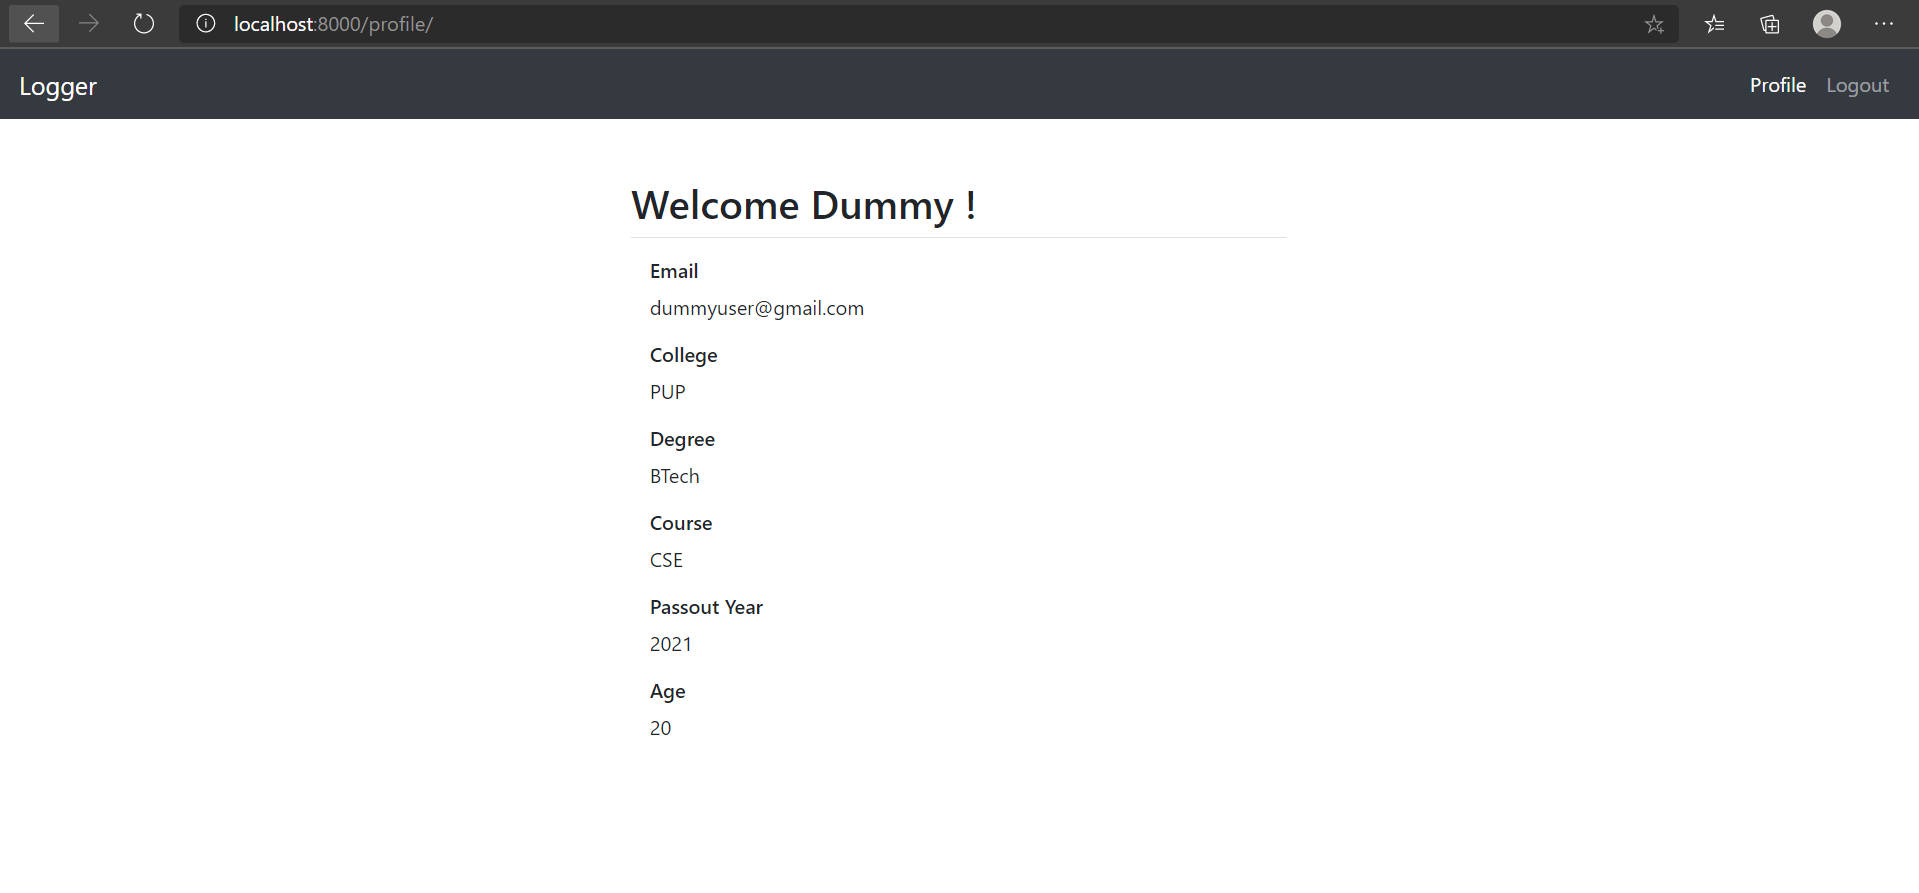
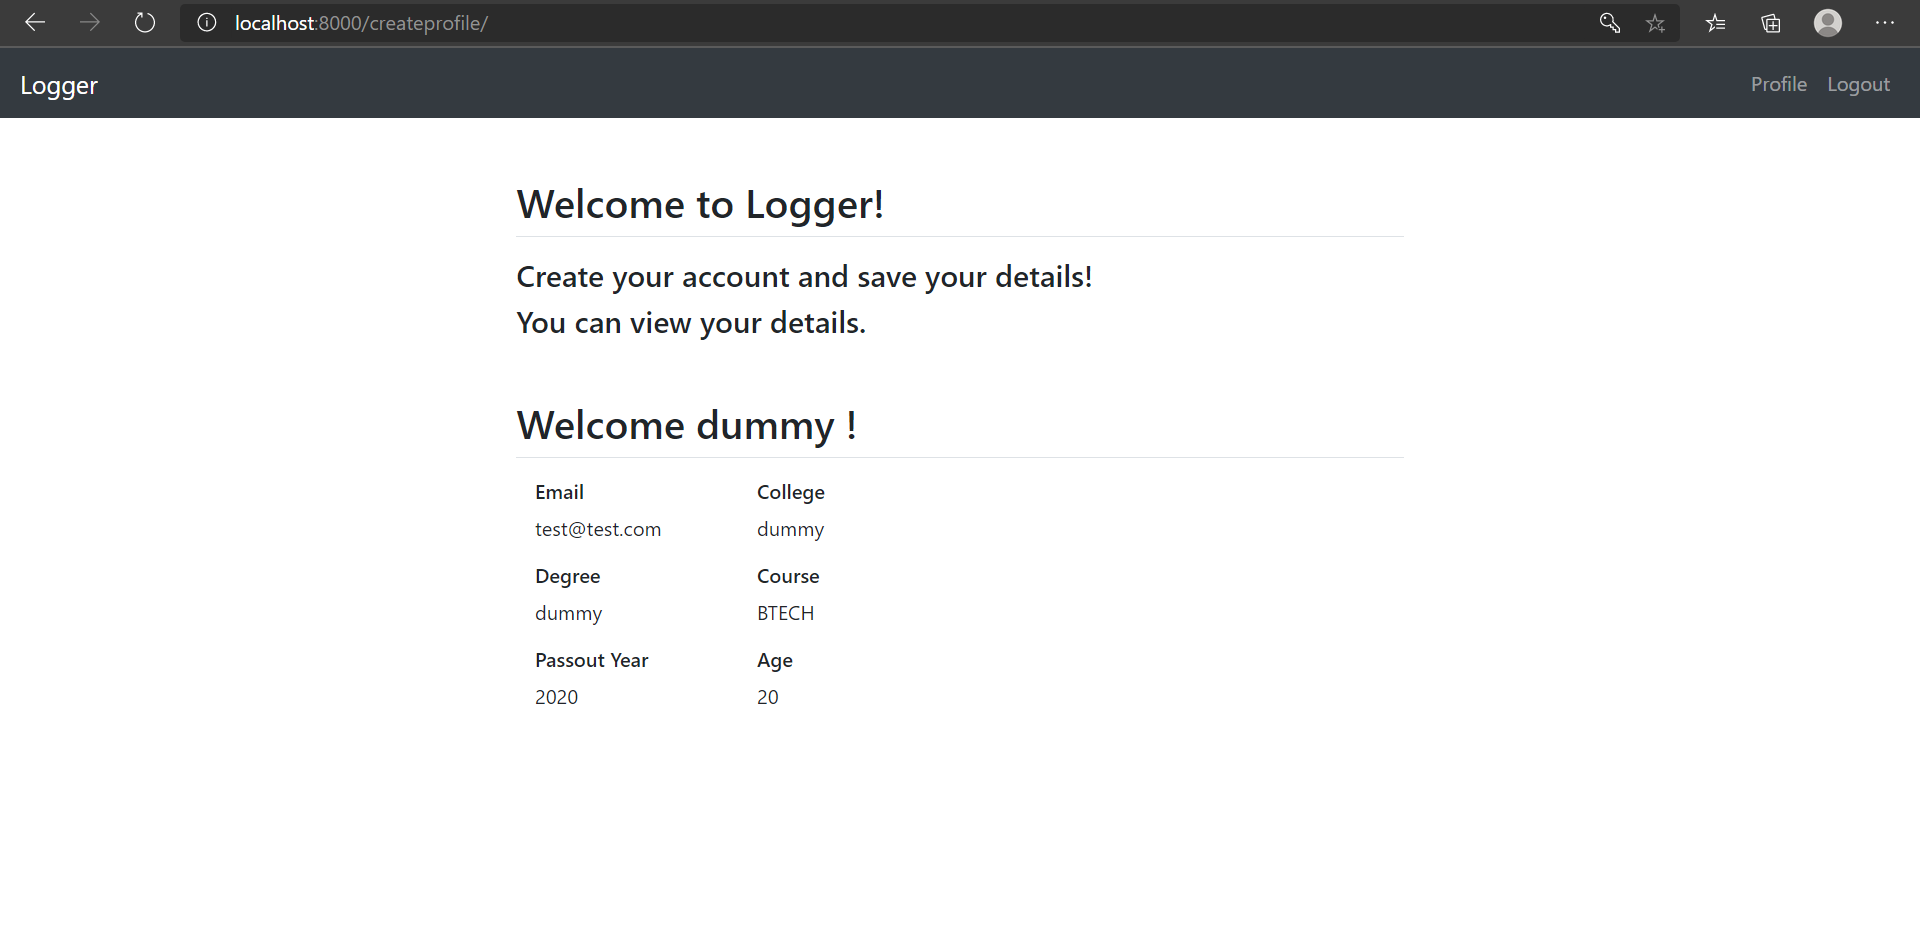
Removed profile page and added the functionality in homepage

diff --git a/users/templates/users/homepage.html b/users/templates/users/homepage.html
@@ -3,18 +3,69 @@
 {% block content %}
 
     <div class="container mt-5">
-        <div class="content-section mx-auto mt-5">
+        <div class="content-section mx-auto col-md-8">
             <h2>Welcome to Logger!</h2>
             <div class="border-top pt-3">
                 <h4>Create your account and save your details!</h4>
                 <h4>You can view your details.</h4>
             </div>
-            <div class="border-top pt-3">
-                <div class="row">
-                    <a href="{% url 'users-login' %}"><button class="btn btn-outline-primary ml-3 mr-3">Log In</button></a>
-                    <a href="{% url 'users-register' %}"><button class="btn btn-outline-primary">Register</button></a>
-                </div>    
+            
+
+            {% if users %}
+            <div class="content-section mx-auto mt-5">
+                <h2>Welcome {{users.name}} !</h2>
+                <div class="border-top pt-3">              
+                    <div class="col-md-6">
+                        <div class="row">
+                            <div class="col">
+                                <h6>Email</h6>
+                                <p>{{users.user}}</p>
+                            </div>
+                            <div class="col">
+                                <h6>College</h6>
+                                <p>{{users.college_name}}</p>
+                            </div>
+                        </div>
+                        <div class="row">
+                            <div class="col">
+                                <h6>Degree</h6>
+                                <p>{{users.degree}}</p>
+                            </div>
+                            <div class="col">
+                                <h6>Course</h6>
+                                <p>{{users.course_name}}</p>
+                            </div>
+                        </div>
+                        <div class="row">
+                            <div class="col">
+                                <h6>Passout Year</h6>
+                                <p>{{users.passout_year}}</p>
+                            </div>
+                            <div class="col">
+                                <h6>Age</h6>
+                                <p>{{users.age}}</p>
+                            </div>
+                        </div>
+                    </div>
+                </div>
             </div>
+            {% else %}
+                {% if user.is_authenticated %}
+                <div class="border-top pt-3">
+                    <div class="row">
+                        <p>Please enter your details.</p>
+                        <a href="{% url 'users-create-profile' %}"><button class="btn btn-outline-primary ml-3 mr-3">Click here</button></a>
+                    </div>    
+                </div>
+                {% else %}
+                <div class="border-top pt-3">
+                    <div class="row">
+                        <a href="{% url 'users-login' %}"><button class="btn btn-outline-primary ml-3 mr-3">Log In</button></a>
+                        <a href="{% url 'users-register' %}"><button class="btn btn-outline-primary">Register</button></a>
+                    </div>    
+                </div>
+                {% endif %}
+            {% endif %}
         </div>
     </div>
 

diff --git a/users/templates/users/base.html b/users/templates/users/base.html
@@ -15,7 +15,7 @@
     {% url 'users-register' as register %}
     {% url 'users-login' as login %}
     {% url 'users-logout' as logout %}
-    {% url 'users-profile' as profile %}
+    {% url 'users-homepage' as profile %}
     <!-- /URLs -->
 
     <!--Navbar -->

diff --git a/users/views.py b/users/views.py
@@ -9,7 +9,13 @@ from .models import Profile
 
 # HomePage
 def homepage(request):
-    return render(request, 'users/homepage.html')
+    current_user = request.user
+    details = Profile.objects.filter(user=current_user).first()
+    
+    if details:
+        return render(request, 'users/homepage.html', {'users':details})
+    else:
+        return render(request, 'users/homepage.html')
 
 
 # Register Page
@@ -34,7 +40,7 @@ def createProfile(request):
     details = Profile.objects.filter(user=current_user).first()
     
     if details:
-        return render(request, 'users/profile.html', {'users':details})
+        return render(request, 'users/homepage.html', {'users':details})
     
     else:
         if request.method == 'POST':
@@ -43,22 +49,11 @@ def createProfile(request):
                 details = form.save(commit=False)
                 details.user = request.user
                 details.save()
-                return redirect('users-profile')
+                return redirect('users-homepage')
         else:
                 form = ProfileForm()
     
     return render(request, 'users/createProfile.html', {'form':form})
-
-
-# Display Profile Details Page - Login is required for this Page
-@login_required
-def profile(request):
-    current_user = request.user
-    details = Profile.objects.filter(user=current_user).first()
-    if details:
-        return render(request, 'users/profile.html', {'users':details})
-    else:
-        return redirect('users-create-profile')
 
 
 # Login Page
@@ -66,7 +61,7 @@ class LoginView(auth_views.LoginView):
     template_name = 'users/login.html'
 
     def get_success_url(self):
-        return resolve_url('users-profile')
+        return resolve_url('users-create-profile')
 
 
 # Logout Page

diff --git a/users/urls.py b/users/urls.py
@@ -9,5 +9,4 @@ urlpatterns = [
     path('login/', users_views.LoginView.as_view(template_name='users/login.html'), name='users-login'),
     path('logout/', auth_views.LogoutView.as_view(template_name='users/logout.html'), name='users-logout'),
     path('createprofile/', users_views.createProfile, name='users-create-profile'),
-    path('profile/', users_views.profile, name='users-profile'),
     ]

diff --git a/Login_Register/settings.py b/Login_Register/settings.py
@@ -75,7 +75,7 @@ WSGI_APPLICATION = 'Login_Register.wsgi.application'
 # Database
 # https://docs.djangoproject.com/en/3.0/ref/settings/#databases
 
-# Add your database setting here
+# Enter your Database Settings Here
 DATABASES = {
     'default': {
         'ENGINE': 'django.db.backends.mysql',
